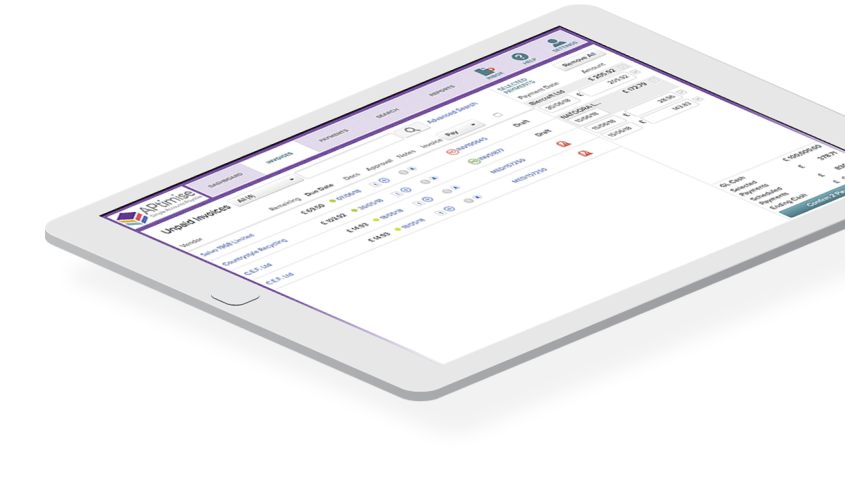
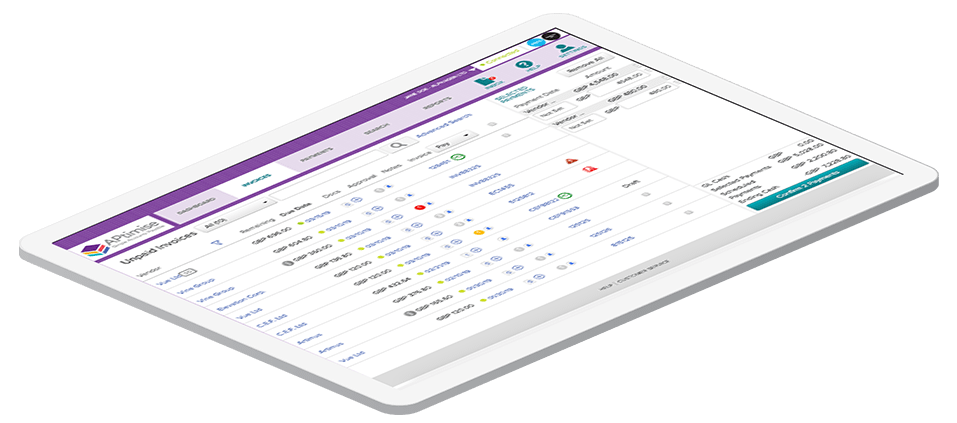
device block adjustments

diff --git a/src/components/ContentBlocks/blocks/DeviceBlock.js b/src/components/ContentBlocks/blocks/DeviceBlock.js
@@ -9,9 +9,11 @@ import ContainerMaxWidth from "components/shared/ContainerMaxWidth"
 import Text from "components/shared/Text"
 import Button from "components/shared/Button"
 import device from "images/device.png"
+import deviceShadow from "images/device-shadow.svg"
 
 const DeviceContainer = styled(ContainerMaxWidth)`
     position: relative;
+    margin-bottom: 4rem;
 `
 
 const DeviceContent = styled(Row)`
@@ -21,15 +23,16 @@ const DeviceContent = styled(Row)`
     padding-bottom: 15rem;
 
     @media ${media.sm} {
+        padding-bottom: 15rem;
+    }
+
+    @media ${media.md} {
         padding-top: 1rem;
+        padding-bottom: 10rem;
     }
 
     @media ${media.lg} {
-        padding-bottom: 20rem;
-    }
-
-    @media ${media.xl} {
-        padding-bottom: 25rem;
+        padding-bottom: 15rem;
     }
 `
 
@@ -62,21 +65,48 @@ const DeviceBgSvg = styled.svg`
     @media ${media.sm} {
         display: block;
         position: absolute;
-        bottom: 0;
-        left: 0;
-        width: 100%;
+        bottom: 0rem;
+        width: 120%;
+        left: 50%;
+        transform: translateX(-50%);
+    }
+
+    @media ${media.lg} {
+        bottom: -4rem;
     }
 `
 
-const DeviceImg = styled.img`
+const DeviceImgWrap = styled.div`
     position: absolute;
-    bottom: 0;
+    bottom: 3rem;
     right: 0;
-    max-height: 15rem;
 
     @media ${media.md} {
-        max-height: none;
         width: 60%;
+        bottom: 0;
+    }
+
+    img {
+        max-width: 100%;
+        max-height: 13rem;
+        &:first-child {
+            position: relative;
+            z-index: 1;
+        }
+
+        @media ${media.md} {
+            max-height: none;
+        }
+    }
+`
+
+const DeviceImgShadow = styled.img`
+    position: absolute;
+    bottom: -2rem;
+    left: 0;
+
+    @media ${media.md} {
+        bottom: -4rem;
     }
 `
 
@@ -114,9 +144,14 @@ class Device extends Component {
     }
 
     animation() {
-        const masterTimeline = new TimelineMax({ repeat: -1, yoyo: true })
-        masterTimeline
-            .to(this.device, 1.5, { y: 20, ease: Power1.easeInOut })
+        const deviceTimeline = new TimelineMax()
+        const shadowTimeline = new TimelineMax()
+
+        deviceTimeline
+            .to(this.device, 1.5, { y: 20, ease: Power1.easeInOut, repeat: -1, yoyo: true })
+
+        shadowTimeline
+            .to(this.deviceShadow, 1.5, { scale: .95, ease: Power1.easeInOut, repeat: -1, yoyo: true })
     }
 
     render() {
@@ -148,16 +183,19 @@ class Device extends Component {
                 </DeviceBgMobileSvg>
 
                 <DeviceWrap>
-                    <DeviceBgSvg viewBox="0 0 1152 493" fill="none">
-                        <path d="M1152 260L576 493L0 260V0H1152V260Z" fill="url(#deviceBg)" />
+                    <DeviceBgSvg viewBox="0 0 1152 231" fill="none">
+                        <path d="M1152 0.000427246L575 231L0 0.000427246H1152Z" fill="url(#deviceBg)" />
                         <defs>
-                            <linearGradient id="deviceBg" x1="566" y1="1102.87" x2="566" y2="-1246" gradientUnits="userSpaceOnUse">
+                            <linearGradient id="deviceBg" x1="566" y1="842.868" x2="566" y2="-1506" gradientUnits="userSpaceOnUse">
                                 <stop offset="0.19337" stopColor="#FFB624" />
-                                <stop offset="0.414365" stopColor="#FFB624" stopOpacity="0" />
+                                <stop offset="0.359283" stopColor="#FFB624" stopOpacity="0" />
                             </linearGradient>
                         </defs>
                     </DeviceBgSvg>
-                    <DeviceImg src={device} alt="" ref={device => this.device = device} />
+                    <DeviceImgWrap>
+                        <img src={device} ref={device => this.device = device} alt="APtimise dashboard" />
+                        <DeviceImgShadow src={deviceShadow} ref={deviceShadow => this.deviceShadow = deviceShadow} alt="" />
+                    </DeviceImgWrap>
                 </DeviceWrap>
             </DeviceContainer>
         )

diff --git a/src/components/ContentBlocks/blocks/CalculatorBlock.js b/src/components/ContentBlocks/blocks/CalculatorBlock.js
@@ -34,8 +34,9 @@ const CalculatorBgSvg = styled.svg`
         display: block;
         position: absolute;
         bottom: 0;
-        left: 0;
-        width: 100%;
+        left: 50%;
+        transform: translateX(-50%);
+        width: 120%;
     }
 `
 
@@ -399,14 +400,14 @@ class Calculator extends  Component {
         return (
             <>
                 <CalculatorContainer>
-                    <CalculatorBgSvg viewBox="0 0 1152 237">
+                    <CalculatorBgSvg viewBox="0 0 1152 148">
+                        <path opacity="0.25" d="M1154 0L576 148L0 0H1154Z" fill="url(#calcBg)" />
                         <defs>
-                            <linearGradient id="a" x1="576" y1="-740.87" x2="576" y2="1608" gradientTransform="matrix(1 0 0 -1 0 106)" gradientUnits="userSpaceOnUse">
-                                <stop offset=".19" />
-                                <stop offset=".33" stopOpacity="0" />
+                            <linearGradient id="calcBg" x1="565.999" y1="757.866" x2="565.999" y2="-1591" gradientUnits="userSpaceOnUse">
+                                <stop offset="0.186842" />
+                                <stop offset="0.316012" stopOpacity="0" />
                             </linearGradient>
                         </defs>
-                        <path d="M1152 111L576 237 0 111v-243l1152 12z" style={{ isolation: "isolate" }} opacity=".25" fill="url(#a)" />
                     </CalculatorBgSvg>
 
                     <Row>
@@ -479,7 +480,7 @@ class Calculator extends  Component {
                             <Slide md={4}>
                                 <RangesliderWrap ref={rangesliderWrap => this.rangesliderWrap = rangesliderWrap}>
                                     <RangesliderControl ref={rangeslider => this.rangeslider = rangeslider}>
-                                        <img src={rangeslider} alt="Control" />
+                                        <img src={rangeslider} alt="Control" width="40" />
                                     </RangesliderControl>
                                     <Rangeslider />
                                 </RangesliderWrap>

diff --git a/src/components/shared/ModalBookDemo.js b/src/components/shared/ModalBookDemo.js
@@ -35,7 +35,8 @@ class ModalBookDemo extends React.Component {
             <ModalAngled isOpen={this.state.modal} toggle={this.toggle}>
                 <ModalAngledClose onClick={this.toggle} />
                 <ModalBody>
-                    <p>Book Demo</p>
+                    <div class="calendly-inline-widget" data-url="https://calendly.com/aptimise" style={{minWidth: "320px", height: "580px"}}></div>
+                    {/* <script type="text/javascript" src="https://assets.calendly.com/assets/external/widget.js"></script> */}
                 </ModalBody>
             </ModalAngled>
         );

diff --git a/src/components/ContentBlocks/blocks/LandingBlock.js b/src/components/ContentBlocks/blocks/LandingBlock.js
@@ -242,7 +242,7 @@ class Landing extends Component {
         return (
             <>
                 <LandingWrapper>
-                    <DesktopImg fluid={imageDesktop.childImageSharp.fluid} alt="" />
+                    <DesktopImg fluid={imageDesktop.childImageSharp.fluid} alt={title} />
                     <DesktopSvg viewBox="0 0 1152 427">                 
                         <path d="M1152 0L576 338L0 206.5V427H1152V0Z" fill="white" />
                         <path d="M1152 190L576 423L0 289V190H1152Z" fill="url(#paint0_linear)" />

diff --git a/src/utils/GlobalStyles.js b/src/utils/GlobalStyles.js
@@ -52,6 +52,7 @@ const GlobalStyles = createGlobalStyle`
         line-height: ${props => props.theme.font.lineHeight.sm};
         color: ${props => props.theme.colors.blackOff};
         -webkit-font-smoothing: antialiased;
+        overflow-x: hidden;
 
         @media ${media.lg} {
             line-height: ${props => props.theme.font.lineHeight.base};
